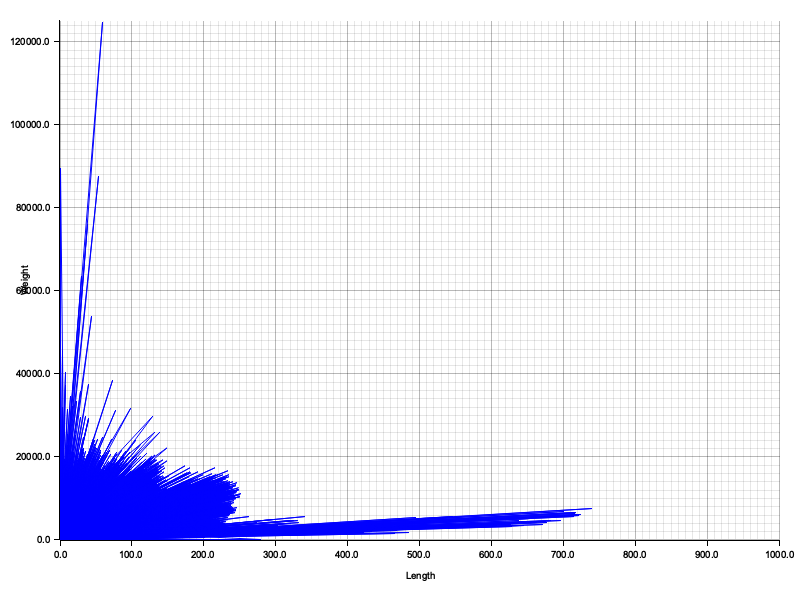
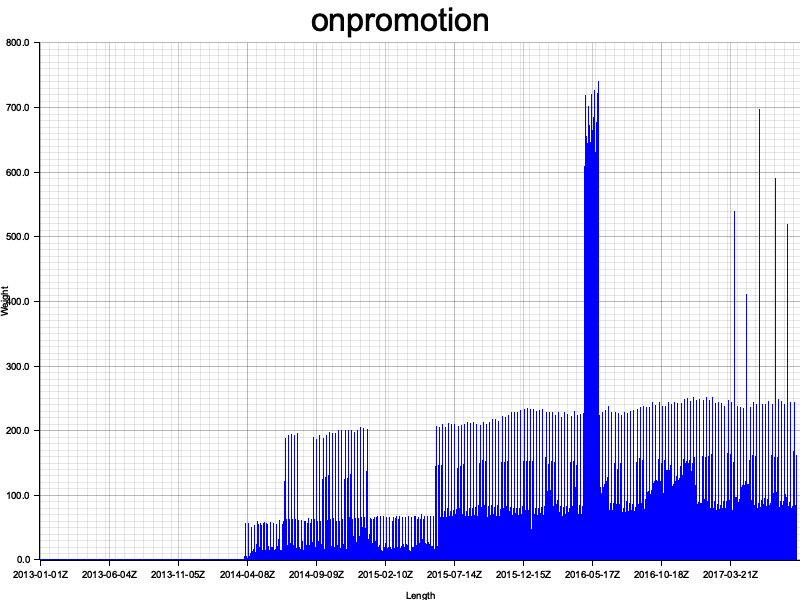
feat:tesdt

diff --git a/src/store_sales/store_sales.rs b/src/store_sales/store_sales.rs
@@ -1,10 +1,12 @@
+use ndarray::iter;
 use plotters::prelude::*;
 use linfa::prelude::*;
 use polars::prelude::*;
 use chrono::{Utc, TimeZone};
-
-
-
+use xgboost::DMatrix;
+use xgboost::parameters;
+use xgboost::Booster;
+use std::fs::File;
 pub fn main(){
    /*===================data========================= */
    //train
@@ -57,23 +59,26 @@ pub fn main(){
     ).unwrap();
 
     //store_nbr
-    let store_nbr_data= train_df.select(["store_nbr","sales"]).unwrap();
-     let store_nbr_data= store_nbr_data.to_ndarray::<Float64Type>(IndexOrder::Fortran).unwrap();
-     let mut store_nbr_data_vec: Vec<Vec<_>> = Vec::new();
-     for row in store_nbr_data.outer_iter() {
-         let row_vec: Vec<_> = row.iter().cloned().collect();
-         store_nbr_data_vec.push(row_vec);
-     }
+    let date_data:Vec<&str>= train_df.column("date").unwrap().str().unwrap().into_iter().map(|x|x.unwrap()).collect();
+    let store_nbr_data:Vec<i64>= train_df.column("store_nbr").unwrap().i64().unwrap().into_no_null_iter().collect();   
+    let store_nbr_data:Vec<f64>= store_nbr_data.into_iter().map(|x|x as f64).collect();
+    let mut  store_nbr_data_vec: Vec<(&str,f64)>= vec![];
+    for i in 0..store_nbr_data.len(){
+        store_nbr_data_vec.push((date_data[i],store_nbr_data[i]))
+    }
     
      let store_nbr_root = BitMapBackend::new("./src/store_sales/store_nbr.png", (800, 600)).into_drawing_area();
      store_nbr_root.fill(&WHITE).unwrap();
   
-  
-         let mut store_nbr_chart: ChartContext<'_, BitMapBackend<'_>, Cartesian2d<plotters::coord::types::RangedCoordf64, plotters::coord::types::RangedCoordf64>> = ChartBuilder::on(&store_nbr_root)
+     let start_date = Utc.ymd(2013, 1, 1);
+     let end_date = Utc.ymd(2017, 8, 20);
+
+         let mut store_nbr_chart = ChartBuilder::on(&store_nbr_root)
          .margin(20)
+         .caption("store_nbr", ("sans-serif", 40))
          .x_label_area_size(40)
          .y_label_area_size(40)
-         .build_cartesian_2d((0.0..60.0), (0.0..12500.0))
+         .build_cartesian_2d(start_date..end_date, (0.0..800.0))
          .unwrap();
  
          store_nbr_chart
@@ -84,32 +89,35 @@ pub fn main(){
          .unwrap();
         store_nbr_chart.draw_series(
             LineSeries::new(
-                store_nbr_data_vec.iter().map(|x| {                
-                    (x[0], x[1])
+                (0..).zip(store_nbr_data_vec.iter()).map(|(idx, &price)| {                
+                    let date = Utc.ymd(price.0.split("-").collect::<Vec<&str>>()[0].to_owned().parse::<i32>().unwrap(),price.0.split("-").collect::<Vec<&str>>()[1].parse::<u32>().unwrap(), price.0.split("-").collect::<Vec<&str>>()[2].parse::<u32>().unwrap());
+                    (date, price.1)
                 }),
                 &BLUE,
             )
-        ).unwrap();
+       ).unwrap();
     
      //store_nbr
-     let onpromotion_data= train_df.select(["onpromotion","sales"]).unwrap();
-     let onpromotion_data= onpromotion_data.to_ndarray::<Float64Type>(IndexOrder::Fortran).unwrap();
-     let mut onpromotion_data_vec: Vec<Vec<_>> = Vec::new();
-     for row in onpromotion_data.outer_iter() {
-         let row_vec: Vec<_> = row.iter().cloned().collect();
-         onpromotion_data_vec.push(row_vec);
+     let date_data:Vec<&str>= train_df.column("date").unwrap().str().unwrap().into_iter().map(|x|x.unwrap()).collect();
+     let onpromotion_data:Vec<i64>= train_df.column("onpromotion").unwrap().i64().unwrap().into_no_null_iter().collect();   
+     let onpromotion_data:Vec<f64>= onpromotion_data.into_iter().map(|x|x as f64).collect();
+     let mut  onpromotion_data_vec: Vec<(&str,f64)>= vec![];
+     for i in 0..onpromotion_data.len(){
+        onpromotion_data_vec.push((date_data[i],onpromotion_data[i]))
      }
-    
      let onpromotion_root = BitMapBackend::new("./src/store_sales/onpromotion.png", (800, 600)).into_drawing_area();
      onpromotion_root.fill(&WHITE).unwrap();
   
   
-         let mut onpromotion_chart: ChartContext<'_, BitMapBackend<'_>, Cartesian2d<plotters::coord::types::RangedCoordf64, plotters::coord::types::RangedCoordf64>> = ChartBuilder::on(&onpromotion_root)
-         .margin(20)
-         .x_label_area_size(40)
-         .y_label_area_size(40)
-         .build_cartesian_2d((0.0..1000.0), (0.0..125000.0))
-         .unwrap();
+     let start_date = Utc.ymd(2013, 1, 1);
+     let end_date = Utc.ymd(2017, 8, 20);
+
+    let mut onpromotion_chart = ChartBuilder::on(&onpromotion_root)
+        .set_label_area_size(LabelAreaPosition::Left, 40)
+        .set_label_area_size(LabelAreaPosition::Bottom, 40)
+        .caption("onpromotion", ("sans-serif", 40))
+        .build_cartesian_2d(start_date..end_date, (0.0..800.0))
+        .unwrap();
  
          onpromotion_chart
          .configure_mesh()
@@ -117,19 +125,97 @@ pub fn main(){
          .y_desc("Weight")
          .draw()
          .unwrap();
-        onpromotion_chart.draw_series(
+         onpromotion_chart.draw_series(
             LineSeries::new(
-                onpromotion_data_vec.iter().map(|x| {                
-                    (x[0], x[1])
+                (0..).zip(onpromotion_data_vec.iter()).map(|(idx, &price)| {                
+                    let date = Utc.ymd(price.0.split("-").collect::<Vec<&str>>()[0].to_owned().parse::<i32>().unwrap(),price.0.split("-").collect::<Vec<&str>>()[1].parse::<u32>().unwrap(), price.0.split("-").collect::<Vec<&str>>()[2].parse::<u32>().unwrap());
+                    (date, price.1)
                 }),
                 &BLUE,
             )
-        ).unwrap();
+       ).unwrap();
 
     /*===================visualization========================= */
     /*===================model========================= */
-    /*===================model========================= */
-    /*===================제출용 파일========================= */
-    /*===================제출용 파일========================= */
+
+    /*===================xgboost========================= */
+let date_data:Vec<&str>= train_df.column("date").unwrap().str().unwrap().into_iter().map(|x|x.unwrap()).collect();
+let test_date_data:Vec<&str>= test_df.column("date").unwrap().str().unwrap().into_iter().map(|x|x.unwrap()).collect();
+
+let num_rows = 3000888;
+let test_sales_data:Vec<f64>= submission_df.column("sales").unwrap().f64().unwrap().into_no_null_iter().collect();
+let test_sales_data:Vec<f32>= test_sales_data.iter().map(|&x|x as f32).collect();
+
+let sales_data:Vec<f64>= train_df.column("sales").unwrap().f64().unwrap().into_no_null_iter().collect();
+let sales_data:Vec<f32>= sales_data.iter().map(|&x|x as f32).collect();
+
+let transformed_data: Vec<f32> = date_data.iter()
+.map(|&x| {
+    let parts: Vec<&str> = x.split("-").collect(); // 날짜를 "-" 기준으로 분할하여 벡터에 저장합니다.
+    let concatenated = format!("{}{}{}", parts[0], parts[1], parts[2]); // "-" 제거 후 문자열을 합칩니다.
+    concatenated.parse::<f32>().unwrap_or(0.0) // f32 숫자로 변환합니다. 변환이 실패하면 0.0으로 반환합니다.
+})
+.collect();
+
+let test_transformed_data: Vec<f32> = test_date_data.iter()
+.map(|&x| {
+    let parts: Vec<&str> = x.split("-").collect(); // 날짜를 "-" 기준으로 분할하여 벡터에 저장합니다.
+    let concatenated = format!("{}{}{}", parts[0], parts[1], parts[2]); // "-" 제거 후 문자열을 합칩니다.
+    concatenated.parse::<f32>().unwrap_or(0.0) // f32 숫자로 변환합니다. 변환이 실패하면 0.0으로 반환합니다.
+})
+.collect();
+// // // convert training data into XGBoost's matrix format
+let mut dtrain: DMatrix = DMatrix::from_dense(&transformed_data,num_rows).unwrap();
+
+// // // set ground truth labels for the training matrix
+dtrain.set_labels(&sales_data).unwrap();
+
+// // // test matrix with 1 row
+// println!("{:?}",test_result_df.shape());
+
+// let x_test = test_result_df.into_shape(1459* 2).unwrap();
+// let x_test:Vec<f32>= x_test.into_iter().collect();
+
+let num_rows = 28512;
+// let result_train:Vec<f32>= test_target_data.iter().map(|x|*x as f32).collect();
+
+
+let mut dtest = DMatrix::from_dense(&test_transformed_data, num_rows).unwrap();
+dtest.set_labels(&test_sales_data).unwrap();
+
+// // specify datasets to evaluate against during training
+let evaluation_sets = &[(&dtrain, "train"), (&dtest, "test")];
+
+// // specify overall training setup
+let training_params = parameters::TrainingParametersBuilder::default()
+    .dtrain(&dtrain)
+    .evaluation_sets(Some(evaluation_sets))
+    .build()
+    .unwrap();
+
+// // // train model, and print evaluation data
+let bst = Booster::train(&training_params).unwrap();
+let y= bst.predict(&dtest).unwrap();
+let y:Vec<f64>= y.iter().map(|x|*x as f64).collect();
+println!("{:?}", bst.predict(&dtest).unwrap());
+
+/*===================xgboost========================= */
+/*===================model========================= */
+/*===================제출용 파일========================= */
+
+
+let survived_series = Series::new("sales",&y);
+let passenger_id_series = test_df.column("id").unwrap().clone();
+
+let mut df: DataFrame = DataFrame::new(vec![passenger_id_series, survived_series]).unwrap();
+
+
+let mut output_file: File = File::create("./datasets/store-sales-time-series-forecasting/out.csv").unwrap();
+
+CsvWriter::new(&mut output_file)
+    // .has_header(true)
+    .finish(&mut df)
+    .unwrap();
+/*===================제출용 파일========================= */
 
 }

diff --git a/src/spaceship_titanic/spaceship_titanic.rs b/src/spaceship_titanic/spaceship_titanic.rs
@@ -1,19 +1,3 @@
-/*
-
-제츨파일
-
-PassengerId :PassengerId
-HomePlanet- 승객이 출발한 행성, 일반적으로 영주권이 있는 행성입니다.
-
-CryoSleep- 승객이 항해 기간 동안 애니메이션을 정지하도록 선택했는지 여부를 나타냅니다. 냉동 수면 중인 승객은 객실에 갇혀 있습니다.
-Cabin- 승객이 머무르는 객실 번호. Port 또는 Starboarddeck/num/side 의 형식 을 취side 합니다 .PS
-Destination- 승객이 내릴 행성.
-Age- 승객의 나이.
-VIP- 승객이 항해 중 특별 VIP 서비스 비용을 지불했는지 여부.
-RoomService, FoodCourt, ShoppingMall, Spa, - 우주선 타이타닉VRDeck 의 다양한 고급 편의 시설 각각에 대해 승객이 청구한 금액입니다 .
-Name- 승객의 이름과 성.
-Transported : target
-*/
 use std::fs::File;
 use ndarray::prelude::*;
 use polars::{prelude::*, lazy::dsl::{col, when}, error::constants::TRUE};

diff --git a/src/main.rs b/src/main.rs
@@ -2,9 +2,12 @@ mod house_price;
 mod spaceship_titanic;
 mod titanic;
 mod store_sales;
+mod binary_classification_with_a_bank_churn_dataset;
 fn main() {
     // titanic::titanic::main();
     // spaceship_titanic::spaceship_titanic::main();
     // house_price::house_price::main();
     store_sales::store_sales::main();
+    // binary_classification_with_a_bank_churn_dataset::binary_classification_with_a_bank_churn_dataset::main();
+    
 }

diff --git a/src/binary_classification_with_a_bank_churn_dataset/mod.rs b/src/binary_classification_with_a_bank_churn_dataset/mod.rs
@@ -1,0 +1,1 @@
+pub mod binary_classification_with_a_bank_churn_dataset;

diff --git a/src/binary_classification_with_a_bank_churn_dataset/binary_classification_with_a_bank_churn_dataset.rs b/src/binary_classification_with_a_bank_churn_dataset/binary_classification_with_a_bank_churn_dataset.rs
@@ -1,0 +1,1 @@
+pub fn main(){}

diff --git a/src/spaceship_titanic/spaceship_titanic.md b/src/spaceship_titanic/spaceship_titanic.md
@@ -1,2 +1,18 @@
 # Spaceship Titanic
 
+# Data
+
+PassengerId :PassengerId
+HomePlanet- 승객이 출발한 행성, 일반적으로 영주권이 있는 행성입니다.
+
+CryoSleep- 승객이 항해 기간 동안 애니메이션을 정지하도록 선택했는지 여부를 나타냅니다. 냉동 수면 중인 승객은 객실에 갇혀 있습니다.
+Cabin- 승객이 머무르는 객실 번호. Port 또는 Starboarddeck/num/side 의 형식 을 취side 합니다 .PS
+Destination- 승객이 내릴 행성.
+Age- 승객의 나이.
+VIP- 승객이 항해 중 특별 VIP 서비스 비용을 지불했는지 여부.
+RoomService, FoodCourt, ShoppingMall, Spa, - 우주선 타이타닉VRDeck 의 다양한 고급 편의 시설 각각에 대해 승객이 청구한 금액입니다 .
+Name- 승객의 이름과 성.
+Transported : target
+
+
+##  

diff --git a/README.md b/README.md
@@ -6,3 +6,4 @@
 - [SpaceshipTitanic](src/spaceship_titanic/spaceship_titanic.md)
 - [HousePrice](src/house_price/house_price.md)
 - [StorePrice](src/store_sales/store_sales.md)
+- [BinaryClassificationwithBankChurnDataset](src/binary_classification_with_a_bank_churn_dataset/binary_classification_with_a_bank_churn_dataset.md)
